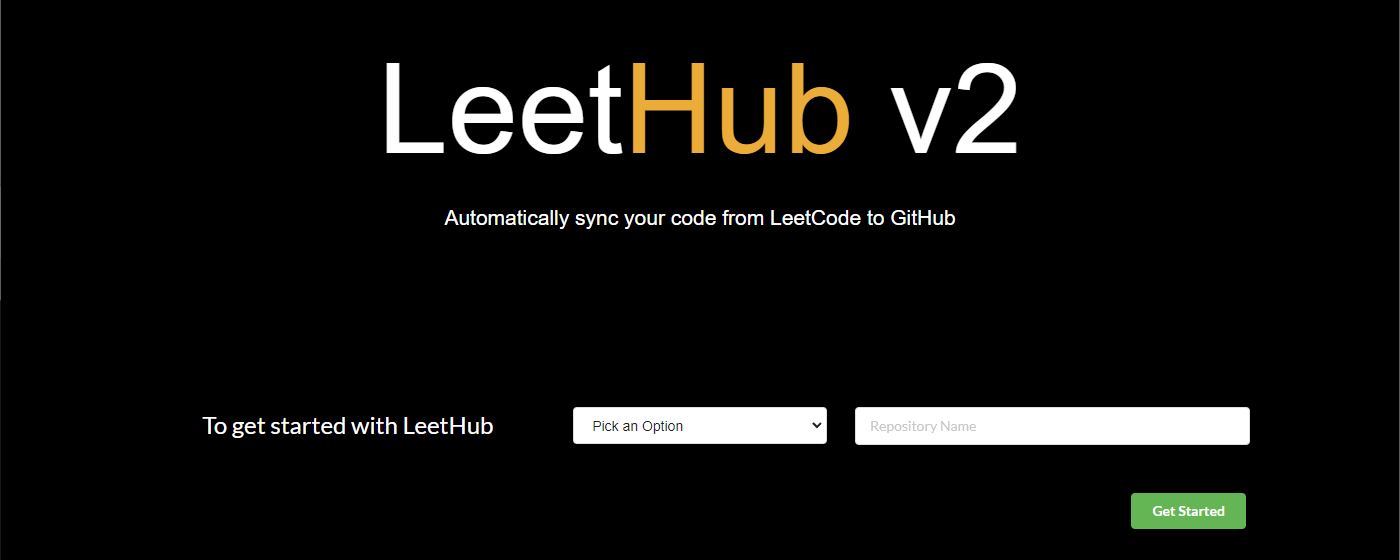
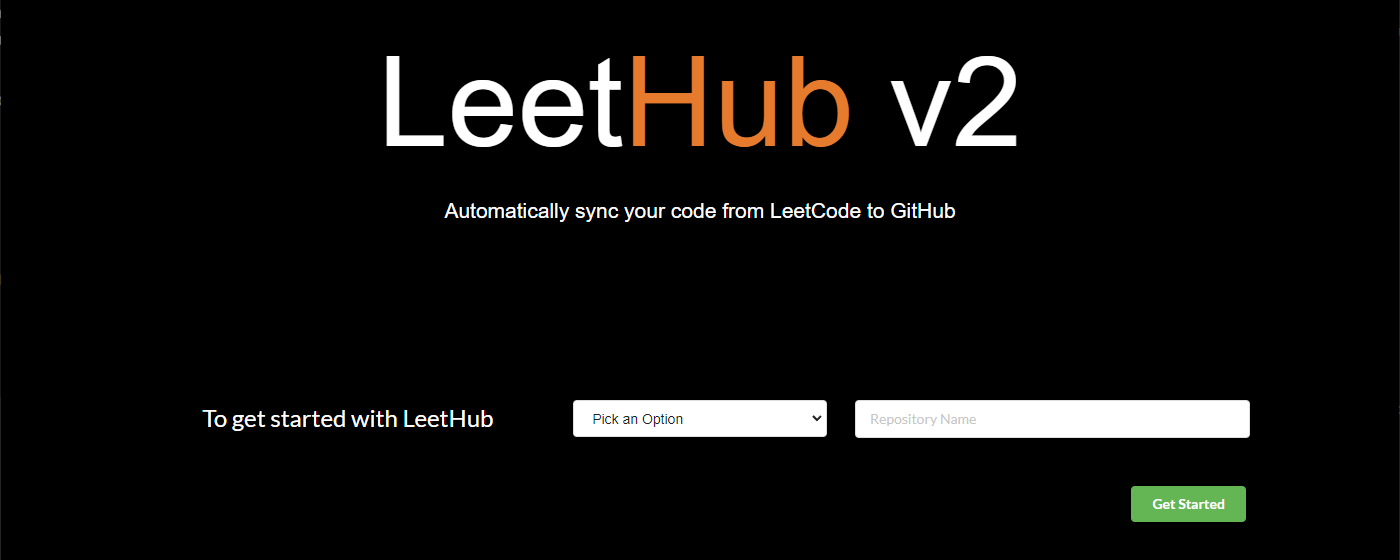
updates images

diff --git a/popup.html b/popup.html
@@ -18,7 +18,7 @@
     <div class="ui grid container">
       <div class="sixteen wide center aligned column">
         <h1 id="title">
-          Leet<span style="color: #f18500">Hub</span> v2
+          Leet<span style="color: #ff6c0a">Hub</span> v2
         </h1>
         <p id="caption">Sync your code from LeetCode to GitHub</p>
         <br />
@@ -28,7 +28,7 @@
             <br />
             Authenticate with GitHub to use
             <strong
-              >Leet<span style="color: #f18500">Hub</span></strong
+              >Leet<span style="color: #ff6c0a">Hub</span></strong
             >
           </p>
           <button id="authenticate" class="ui secondary button">
@@ -43,7 +43,7 @@
             <br />
             Set up repository hook to use
             <strong
-              >Leet<span style="color: #f18500">Hub</span></strong
+              >Leet<span style="color: #ff6c0a">Hub</span></strong
             >
           </p>
           <a

diff --git a/welcome.html b/welcome.html
@@ -18,7 +18,7 @@
       <div class="sixteen wide center aligned column">
         <br />
         <p class="caption" style="font-size: 9em">
-          Leet<span style="color: orange">Hub</span> v2
+          Leet<span style="color: #ff6c0a">Hub</span> v2
         </p>
         <p class="caption">
           Automatically sync your code from LeetCode to GitHub
@@ -132,7 +132,7 @@
             target="_blank"
             href="https://github.com/arunbhardwaj/LeetHub-1.1"
             >Star <span style="color: white">Leet</span
-            ><span style="color: orange !important">Hub</span> on
+            ><span style="color: #ff6c0a !important">Hub</span> on
             GitHub</a
           >
         </div>
